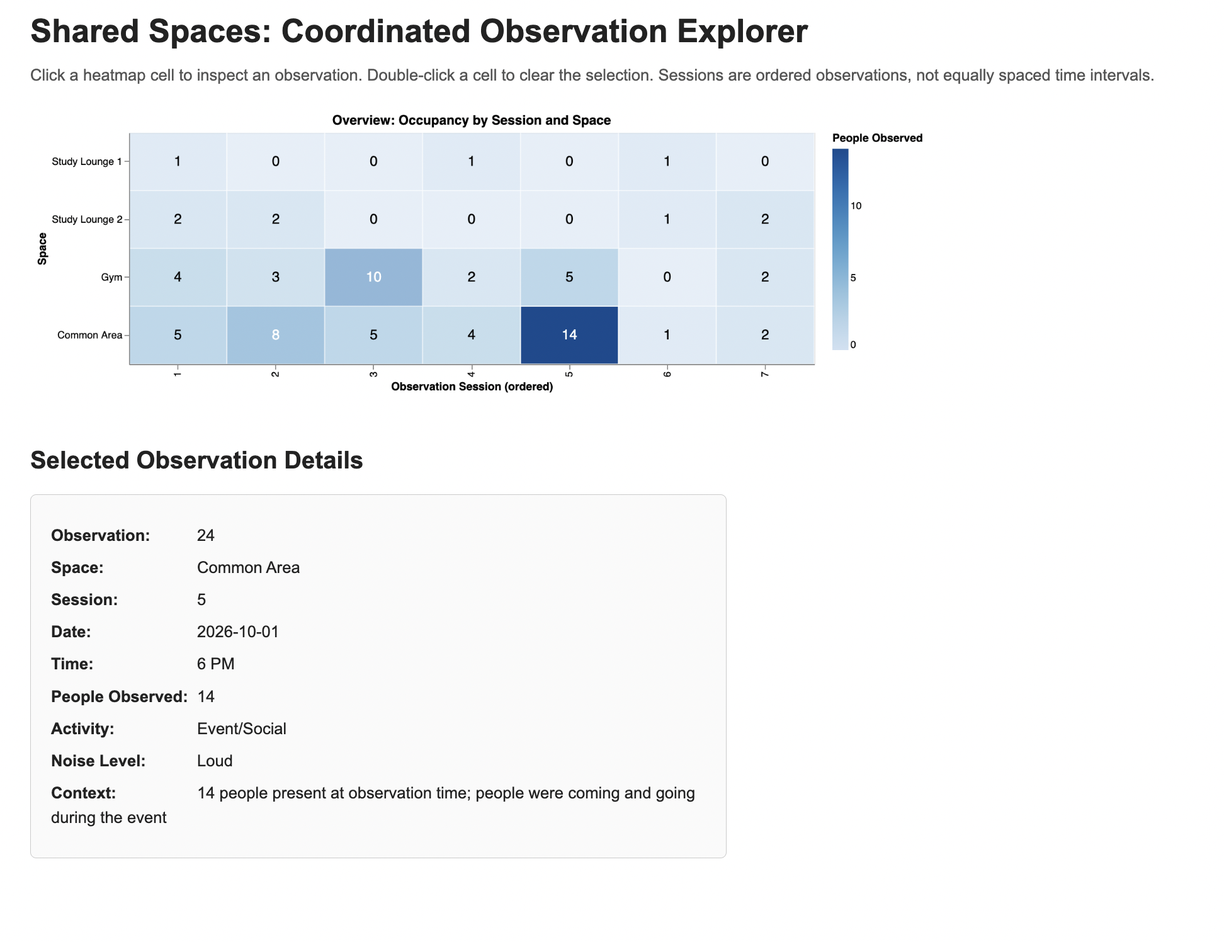
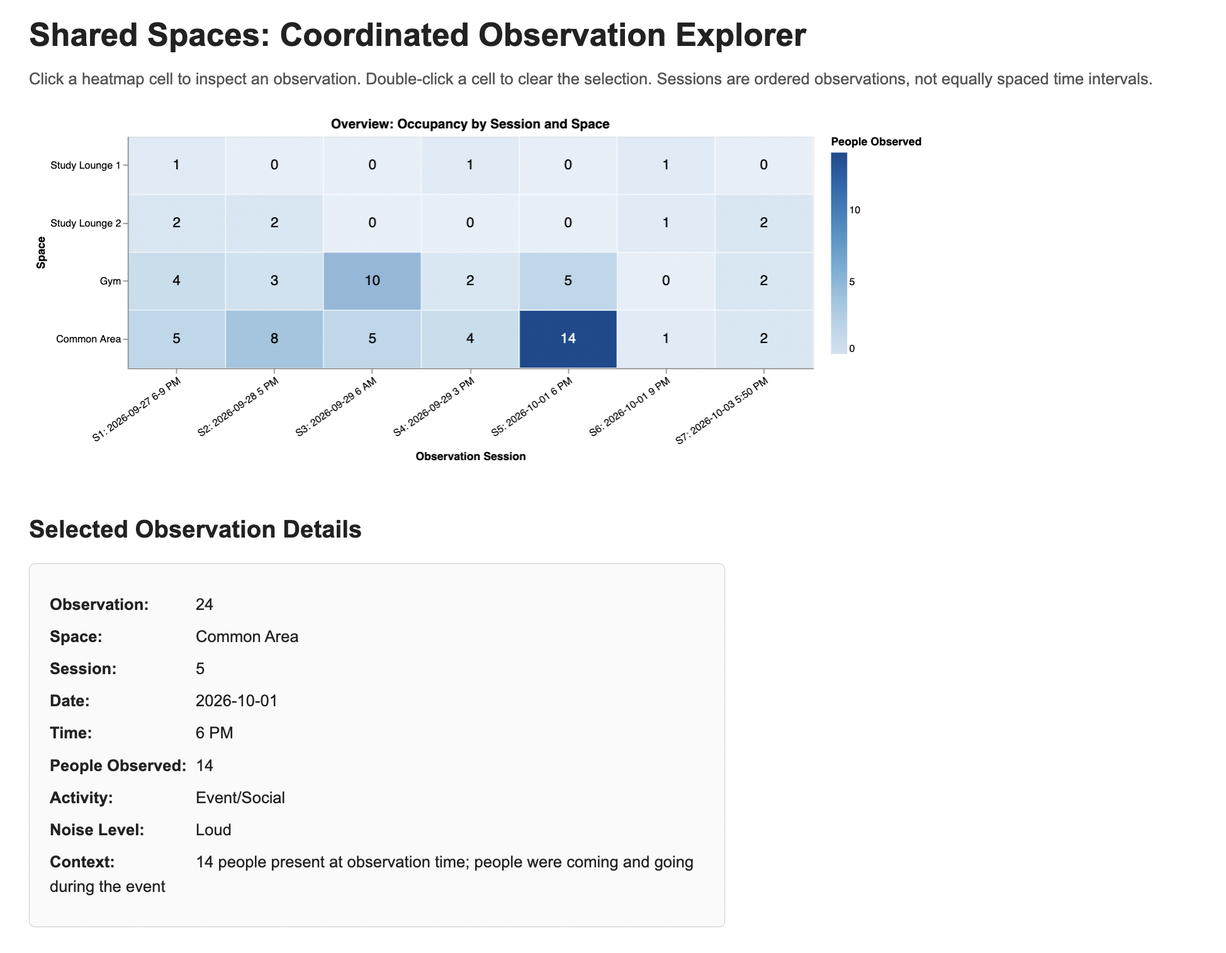
Improve final heatmap labels and readability

diff --git a/assignment2/visualization/iteration2.html b/assignment2/visualization/iteration2.html
@@ -68,7 +68,7 @@ Click a heatmap cell to inspect an observation.
 </div>
 
 <script>
-const spec = {"$schema": "https://vega.github.io/schema/vega-lite/v5.json", "title": "Overview: Occupancy by Session and Space", "width": 680, "height": 230, "data": {"values": [{"observation_id": 1, "date": "2026-09-27", "day_of_week": "Sunday", "time": "6-9 PM", "time_period": "Evening", "space": "Study Lounge 1", "space_type": "Study", "people_count": 1, "noise_level": "Quiet", "main_activity": "Studying/Working", "context_notes": "", "session_id": 1, "session_label": "S1: 2026-09-27 6-9 PM"}, {"observation_id": 2, "date": "2026-09-27", "day_of_week": "Sunday", "time": "6-9 PM", "time_period": "Evening", "space": "Study Lounge 2", "space_type": "Study", "people_count": 2, "noise_level": "Quiet", "main_activity": "Studying/Working", "context_notes": "", "session_id": 1, "session_label": "S1: 2026-09-27 6-9 PM"}, {"observation_id": 3, "date": "2026-09-27", "day_of_week": "Sunday", "time": "6-9 PM", "time_period": "Evening", "space": "Gym", "space_type": "Fitness", "people_count": 4, "noise_level": "Moderate", "main_activity": "Exercising", "context_notes": "Weekend", "session_id": 1, "session_label": "S1: 2026-09-27 6-9 PM"}, {"observation_id": 4, "date": "2026-09-27", "day_of_week": "Sunday", "time": "6-9 PM", "time_period": "Evening", "space": "Common Area", "space_type": "Social/Common", "people_count": 5, "noise_level": "Moderate", "main_activity": "Recreation", "context_notes": "People playing table tennis", "session_id": 1, "session_label": "S1: 2026-09-27 6-9 PM"}, {"observation_id": 5, "date": "2026-09-28", "day_of_week": "Monday", "time": "5 PM", "time_period": "Evening", "space": "Study Lounge 1", "space_type": "Study", "people_count": 0, "noise_level": "Quiet", "main_activity": "None", "context_notes": "Space empty", "session_id": 2, "session_label": "S2: 2026-09-28 5 PM"}, {"observation_id": 6, "date": "2026-09-28", "day_of_week": "Monday", "time": "5 PM", "time_period": "Evening", "space": "Study Lounge 2", "space_type": "Study", "people_count": 2, "noise_level": "Quiet", "main_activity": "Studying/Working", "context_notes": "", "session_id": 2, "session_label": "S2: 2026-09-28 5 PM"}, {"observation_id": 7, "date": "2026-09-28", "day_of_week": "Monday", "time": "5 PM", "time_period": "Evening", "space": "Gym", "space_type": "Fitness", "people_count": 3, "noise_level": "Quiet", "main_activity": "Exercising", "context_notes": "Treadmill and strength training", "session_id": 2, "session_label": "S2: 2026-09-28 5 PM"}, {"observation_id": 8, "date": "2026-09-28", "day_of_week": "Monday", "time": "5 PM", "time_period": "Evening", "space": "Common Area", "space_type": "Social/Common", "people_count": 8, "noise_level": "Loud", "main_activity": "Recreation", "context_notes": "People playing table tennis and pool", "session_id": 2, "session_label": "S2: 2026-09-28 5 PM"}, {"observation_id": 9, "date": "2026-09-29", "day_of_week": "Tuesday", "time": "6 AM", "time_period": "Morning", "space": "Study Lounge 1", "space_type": "Study", "people_count": 0, "noise_level": "Quiet", "main_activity": "None", "context_notes": "Space empty", "session_id": 3, "session_label": "S3: 2026-09-29 6 AM"}, {"observation_id": 10, "date": "2026-09-29", "day_of_week": "Tuesday", "time": "6 AM", "time_period": "Morning", "space": "Study Lounge 2", "space_type": "Study", "people_count": 0, "noise_level": "Quiet", "main_activity": "None", "context_notes": "Space empty", "session_id": 3, "session_label": "S3: 2026-09-29 6 AM"}, {"observation_id": 11, "date": "2026-09-29", "day_of_week": "Tuesday", "time": "6 AM", "time_period": "Morning", "space": "Gym", "space_type": "Fitness", "people_count": 10, "noise_level": "Loud", "main_activity": "Exercising", "context_notes": "Treadmill StairMaster and strength training", "session_id": 3, "session_label": "S3: 2026-09-29 6 AM"}, {"observation_id": 12, "date": "2026-09-29", "day_of_week": "Tuesday", "time": "6 AM", "time_period": "Morning", "space": "Common Area", "space_type": "Social/Common", "people_count": 5, "noise_level": "Moderate", "main_activity": "Mixed", "context_notes": "Reading books or newspapers and having coffee", "session_id": 3, "session_label": "S3: 2026-09-29 6 AM"}, {"observation_id": 13, "date": "2026-09-29", "day_of_week": "Tuesday", "time": "3 PM", "time_period": "Afternoon", "space": "Study Lounge 1", "space_type": "Study", "people_count": 1, "noise_level": "Quiet", "main_activity": "Studying/Working", "context_notes": "", "session_id": 4, "session_label": "S4: 2026-09-29 3 PM"}, {"observation_id": 14, "date": "2026-09-29", "day_of_week": "Tuesday", "time": "3 PM", "time_period": "Afternoon", "space": "Study Lounge 2", "space_type": "Study", "people_count": 0, "noise_level": "Quiet", "main_activity": "None", "context_notes": "Space empty", "session_id": 4, "session_label": "S4: 2026-09-29 3 PM"}, {"observation_id": 15, "date": "2026-09-29", "day_of_week": "Tuesday", "time": "3 PM", "time_period": "Afternoon", "space": "Gym", "space_type": "Fitness", "people_count": 2, "noise_level": "Quiet", "main_activity": "Exercising", "context_notes": "Treadmill walking", "session_id": 4, "session_label": "S4: 2026-09-29 3 PM"}, {"observation_id": 16, "date": "2026-09-29", "day_of_week": "Tuesday", "time": "3 PM", "time_period": "Afternoon", "space": "Common Area", "space_type": "Social/Common", "people_count": 4, "noise_level": "Quiet", "main_activity": "Studying/Working", "context_notes": "People using laptops or phones", "session_id": 4, "session_label": "S4: 2026-09-29 3 PM"}, {"observation_id": 17, "date": "2026-10-01", "day_of_week": "Thursday", "time": "9 PM", "time_period": "Evening", "space": "Study Lounge 1", "space_type": "Study", "people_count": 1, "noise_level": "Quiet", "main_activity": "Studying/Working", "context_notes": "Heavy rain outside", "session_id": 6, "session_label": "S6: 2026-10-01 9 PM"}, {"observation_id": 18, "date": "2026-10-01", "day_of_week": "Thursday", "time": "9 PM", "time_period": "Evening", "space": "Study Lounge 2", "space_type": "Study", "people_count": 1, "noise_level": "Quiet", "main_activity": "Studying/Working", "context_notes": "Heavy rain outside", "session_id": 6, "session_label": "S6: 2026-10-01 9 PM"}, {"observation_id": 19, "date": "2026-10-01", "day_of_week": "Thursday", "time": "9 PM", "time_period": "Evening", "space": "Gym", "space_type": "Fitness", "people_count": 0, "noise_level": "Quiet", "main_activity": "None", "context_notes": "Heavy rain outside; space empty", "session_id": 6, "session_label": "S6: 2026-10-01 9 PM"}, {"observation_id": 20, "date": "2026-10-01", "day_of_week": "Thursday", "time": "9 PM", "time_period": "Evening", "space": "Common Area", "space_type": "Social/Common", "people_count": 1, "noise_level": "Quiet", "main_activity": "Reading", "context_notes": "Heavy rain outside; one person reading a book", "session_id": 6, "session_label": "S6: 2026-10-01 9 PM"}, {"observation_id": 21, "date": "2026-10-01", "day_of_week": "Thursday", "time": "6 PM", "time_period": "Evening", "space": "Study Lounge 1", "space_type": "Study", "people_count": 0, "noise_level": "Quiet", "main_activity": "None", "context_notes": "Event occurring in connected main lobby", "session_id": 5, "session_label": "S5: 2026-10-01 6 PM"}, {"observation_id": 22, "date": "2026-10-01", "day_of_week": "Thursday", "time": "6 PM", "time_period": "Evening", "space": "Study Lounge 2", "space_type": "Study", "people_count": 0, "noise_level": "Quiet", "main_activity": "None", "context_notes": "Event occurring in connected main lobby", "session_id": 5, "session_label": "S5: 2026-10-01 6 PM"}, {"observation_id": 23, "date": "2026-10-01", "day_of_week": "Thursday", "time": "6 PM", "time_period": "Evening", "space": "Gym", "space_type": "Fitness", "people_count": 5, "noise_level": "Moderate", "main_activity": "Exercising", "context_notes": "", "session_id": 5, "session_label": "S5: 2026-10-01 6 PM"}, {"observation_id": 24, "date": "2026-10-01", "day_of_week": "Thursday", "time": "6 PM", "time_period": "Evening", "space": "Common Area", "space_type": "Social/Common", "people_count": 14, "noise_level": "Loud", "main_activity": "Event/Social", "context_notes": "14 people present at observation time; people were coming and going during the event", "session_id": 5, "session_label": "S5: 2026-10-01 6 PM"}, {"observation_id": 25, "date": "2026-10-03", "day_of_week": "Saturday", "time": "5:50 PM", "time_period": "Evening", "space": "Gym", "space_type": "Fitness", "people_count": 2, "noise_level": "Moderate", "main_activity": "Exercising", "context_notes": "Background gym music; weekend", "session_id": 7, "session_label": "S7: 2026-10-03 5:50 PM"}, {"observation_id": 26, "date": "2026-10-03", "day_of_week": "Saturday", "time": "5:50 PM", "time_period": "Evening", "space": "Study Lounge 1", "space_type": "Study", "people_count": 0, "noise_level": "Quiet", "main_activity": "None", "context_notes": "Space empty; weekend", "session_id": 7, "session_label": "S7: 2026-10-03 5:50 PM"}, {"observation_id": 27, "date": "2026-10-03", "day_of_week": "Saturday", "time": "5:50 PM", "time_period": "Evening", "space": "Study Lounge 2", "space_type": "Study", "people_count": 2, "noise_level": "Quiet", "main_activity": "Studying/Working", "context_notes": "Weekend", "session_id": 7, "session_label": "S7: 2026-10-03 5:50 PM"}, {"observation_id": 28, "date": "2026-10-03", "day_of_week": "Saturday", "time": "5:50 PM", "time_period": "Evening", "space": "Common Area", "space_type": "Social/Common", "people_count": 2, "noise_level": "Quiet", "main_activity": "Mixed", "context_notes": "One person working and one waiting for coffee; weekend", "session_id": 7, "session_label": "S7: 2026-10-03 5:50 PM"}]}, "layer": [{"params": [{"name": "selectedObservation", "select": {"type": "point", "fields": ["observation_id"], "on": "click", "clear": "dblclick"}}], "mark": {"type": "rect", "stroke": "white", "strokeWidth": 1}, "encoding": {"x": {"field": "session_id", "type": "ordinal", "title": "Observation Session (ordered)", "sort": "ascending"}, "y": {"field": "space", "type": "nominal", "title": "Space", "sort": ["Study Lounge 1", "Study Lounge 2", "Gym", "Common Area"]}, "color": {"field": "people_count", "type": "quantitative", "title": "People Observed", "scale": {"scheme": "blues"}}, "opacity": {"condition": {"param": "selectedObservation", "value": 1}, "value": 0.55}, "tooltip": [{"field": "observation_id", "title": "Observation"}, {"field": "space", "title": "Space"}, {"field": "session_id", "title": "Session"}, {"field": "people_count", "title": "People"}]}}, {"mark": {"type": "text", "fontSize": 14}, "encoding": {"x": {"field": "session_id", "type": "ordinal", "sort": "ascending"}, "y": {"field": "space", "type": "nominal", "sort": ["Study Lounge 1", "Study Lounge 2", "Gym", "Common Area"]}, "text": {"field": "people_count", "type": "quantitative", "format": "d"}, "color": {"condition": {"test": "datum.people_count >= 8", "value": "white"}, "value": "black"}}}]};
+const spec = {"$schema": "https://vega.github.io/schema/vega-lite/v5.json", "title": "Overview: Occupancy by Session and Space", "width": 680, "height": 230, "data": {"values": [{"observation_id": 1, "date": "2026-09-27", "day_of_week": "Sunday", "time": "6-9 PM", "time_period": "Evening", "space": "Study Lounge 1", "space_type": "Study", "people_count": 1, "noise_level": "Quiet", "main_activity": "Studying/Working", "context_notes": "", "session_id": 1, "session_label": "S1: 2026-09-27 6-9 PM"}, {"observation_id": 2, "date": "2026-09-27", "day_of_week": "Sunday", "time": "6-9 PM", "time_period": "Evening", "space": "Study Lounge 2", "space_type": "Study", "people_count": 2, "noise_level": "Quiet", "main_activity": "Studying/Working", "context_notes": "", "session_id": 1, "session_label": "S1: 2026-09-27 6-9 PM"}, {"observation_id": 3, "date": "2026-09-27", "day_of_week": "Sunday", "time": "6-9 PM", "time_period": "Evening", "space": "Gym", "space_type": "Fitness", "people_count": 4, "noise_level": "Moderate", "main_activity": "Exercising", "context_notes": "Weekend", "session_id": 1, "session_label": "S1: 2026-09-27 6-9 PM"}, {"observation_id": 4, "date": "2026-09-27", "day_of_week": "Sunday", "time": "6-9 PM", "time_period": "Evening", "space": "Common Area", "space_type": "Social/Common", "people_count": 5, "noise_level": "Moderate", "main_activity": "Recreation", "context_notes": "People playing table tennis", "session_id": 1, "session_label": "S1: 2026-09-27 6-9 PM"}, {"observation_id": 5, "date": "2026-09-28", "day_of_week": "Monday", "time": "5 PM", "time_period": "Evening", "space": "Study Lounge 1", "space_type": "Study", "people_count": 0, "noise_level": "Quiet", "main_activity": "None", "context_notes": "Space empty", "session_id": 2, "session_label": "S2: 2026-09-28 5 PM"}, {"observation_id": 6, "date": "2026-09-28", "day_of_week": "Monday", "time": "5 PM", "time_period": "Evening", "space": "Study Lounge 2", "space_type": "Study", "people_count": 2, "noise_level": "Quiet", "main_activity": "Studying/Working", "context_notes": "", "session_id": 2, "session_label": "S2: 2026-09-28 5 PM"}, {"observation_id": 7, "date": "2026-09-28", "day_of_week": "Monday", "time": "5 PM", "time_period": "Evening", "space": "Gym", "space_type": "Fitness", "people_count": 3, "noise_level": "Quiet", "main_activity": "Exercising", "context_notes": "Treadmill and strength training", "session_id": 2, "session_label": "S2: 2026-09-28 5 PM"}, {"observation_id": 8, "date": "2026-09-28", "day_of_week": "Monday", "time": "5 PM", "time_period": "Evening", "space": "Common Area", "space_type": "Social/Common", "people_count": 8, "noise_level": "Loud", "main_activity": "Recreation", "context_notes": "People playing table tennis and pool", "session_id": 2, "session_label": "S2: 2026-09-28 5 PM"}, {"observation_id": 9, "date": "2026-09-29", "day_of_week": "Tuesday", "time": "6 AM", "time_period": "Morning", "space": "Study Lounge 1", "space_type": "Study", "people_count": 0, "noise_level": "Quiet", "main_activity": "None", "context_notes": "Space empty", "session_id": 3, "session_label": "S3: 2026-09-29 6 AM"}, {"observation_id": 10, "date": "2026-09-29", "day_of_week": "Tuesday", "time": "6 AM", "time_period": "Morning", "space": "Study Lounge 2", "space_type": "Study", "people_count": 0, "noise_level": "Quiet", "main_activity": "None", "context_notes": "Space empty", "session_id": 3, "session_label": "S3: 2026-09-29 6 AM"}, {"observation_id": 11, "date": "2026-09-29", "day_of_week": "Tuesday", "time": "6 AM", "time_period": "Morning", "space": "Gym", "space_type": "Fitness", "people_count": 10, "noise_level": "Loud", "main_activity": "Exercising", "context_notes": "Treadmill StairMaster and strength training", "session_id": 3, "session_label": "S3: 2026-09-29 6 AM"}, {"observation_id": 12, "date": "2026-09-29", "day_of_week": "Tuesday", "time": "6 AM", "time_period": "Morning", "space": "Common Area", "space_type": "Social/Common", "people_count": 5, "noise_level": "Moderate", "main_activity": "Mixed", "context_notes": "Reading books or newspapers and having coffee", "session_id": 3, "session_label": "S3: 2026-09-29 6 AM"}, {"observation_id": 13, "date": "2026-09-29", "day_of_week": "Tuesday", "time": "3 PM", "time_period": "Afternoon", "space": "Study Lounge 1", "space_type": "Study", "people_count": 1, "noise_level": "Quiet", "main_activity": "Studying/Working", "context_notes": "", "session_id": 4, "session_label": "S4: 2026-09-29 3 PM"}, {"observation_id": 14, "date": "2026-09-29", "day_of_week": "Tuesday", "time": "3 PM", "time_period": "Afternoon", "space": "Study Lounge 2", "space_type": "Study", "people_count": 0, "noise_level": "Quiet", "main_activity": "None", "context_notes": "Space empty", "session_id": 4, "session_label": "S4: 2026-09-29 3 PM"}, {"observation_id": 15, "date": "2026-09-29", "day_of_week": "Tuesday", "time": "3 PM", "time_period": "Afternoon", "space": "Gym", "space_type": "Fitness", "people_count": 2, "noise_level": "Quiet", "main_activity": "Exercising", "context_notes": "Treadmill walking", "session_id": 4, "session_label": "S4: 2026-09-29 3 PM"}, {"observation_id": 16, "date": "2026-09-29", "day_of_week": "Tuesday", "time": "3 PM", "time_period": "Afternoon", "space": "Common Area", "space_type": "Social/Common", "people_count": 4, "noise_level": "Quiet", "main_activity": "Studying/Working", "context_notes": "People using laptops or phones", "session_id": 4, "session_label": "S4: 2026-09-29 3 PM"}, {"observation_id": 17, "date": "2026-10-01", "day_of_week": "Thursday", "time": "9 PM", "time_period": "Evening", "space": "Study Lounge 1", "space_type": "Study", "people_count": 1, "noise_level": "Quiet", "main_activity": "Studying/Working", "context_notes": "Heavy rain outside", "session_id": 6, "session_label": "S6: 2026-10-01 9 PM"}, {"observation_id": 18, "date": "2026-10-01", "day_of_week": "Thursday", "time": "9 PM", "time_period": "Evening", "space": "Study Lounge 2", "space_type": "Study", "people_count": 1, "noise_level": "Quiet", "main_activity": "Studying/Working", "context_notes": "Heavy rain outside", "session_id": 6, "session_label": "S6: 2026-10-01 9 PM"}, {"observation_id": 19, "date": "2026-10-01", "day_of_week": "Thursday", "time": "9 PM", "time_period": "Evening", "space": "Gym", "space_type": "Fitness", "people_count": 0, "noise_level": "Quiet", "main_activity": "None", "context_notes": "Heavy rain outside; space empty", "session_id": 6, "session_label": "S6: 2026-10-01 9 PM"}, {"observation_id": 20, "date": "2026-10-01", "day_of_week": "Thursday", "time": "9 PM", "time_period": "Evening", "space": "Common Area", "space_type": "Social/Common", "people_count": 1, "noise_level": "Quiet", "main_activity": "Reading", "context_notes": "Heavy rain outside; one person reading a book", "session_id": 6, "session_label": "S6: 2026-10-01 9 PM"}, {"observation_id": 21, "date": "2026-10-01", "day_of_week": "Thursday", "time": "6 PM", "time_period": "Evening", "space": "Study Lounge 1", "space_type": "Study", "people_count": 0, "noise_level": "Quiet", "main_activity": "None", "context_notes": "Event occurring in connected main lobby", "session_id": 5, "session_label": "S5: 2026-10-01 6 PM"}, {"observation_id": 22, "date": "2026-10-01", "day_of_week": "Thursday", "time": "6 PM", "time_period": "Evening", "space": "Study Lounge 2", "space_type": "Study", "people_count": 0, "noise_level": "Quiet", "main_activity": "None", "context_notes": "Event occurring in connected main lobby", "session_id": 5, "session_label": "S5: 2026-10-01 6 PM"}, {"observation_id": 23, "date": "2026-10-01", "day_of_week": "Thursday", "time": "6 PM", "time_period": "Evening", "space": "Gym", "space_type": "Fitness", "people_count": 5, "noise_level": "Moderate", "main_activity": "Exercising", "context_notes": "", "session_id": 5, "session_label": "S5: 2026-10-01 6 PM"}, {"observation_id": 24, "date": "2026-10-01", "day_of_week": "Thursday", "time": "6 PM", "time_period": "Evening", "space": "Common Area", "space_type": "Social/Common", "people_count": 14, "noise_level": "Loud", "main_activity": "Event/Social", "context_notes": "14 people present at observation time; people were coming and going during the event", "session_id": 5, "session_label": "S5: 2026-10-01 6 PM"}, {"observation_id": 25, "date": "2026-10-03", "day_of_week": "Saturday", "time": "5:50 PM", "time_period": "Evening", "space": "Gym", "space_type": "Fitness", "people_count": 2, "noise_level": "Moderate", "main_activity": "Exercising", "context_notes": "Background gym music; weekend", "session_id": 7, "session_label": "S7: 2026-10-03 5:50 PM"}, {"observation_id": 26, "date": "2026-10-03", "day_of_week": "Saturday", "time": "5:50 PM", "time_period": "Evening", "space": "Study Lounge 1", "space_type": "Study", "people_count": 0, "noise_level": "Quiet", "main_activity": "None", "context_notes": "Space empty; weekend", "session_id": 7, "session_label": "S7: 2026-10-03 5:50 PM"}, {"observation_id": 27, "date": "2026-10-03", "day_of_week": "Saturday", "time": "5:50 PM", "time_period": "Evening", "space": "Study Lounge 2", "space_type": "Study", "people_count": 2, "noise_level": "Quiet", "main_activity": "Studying/Working", "context_notes": "Weekend", "session_id": 7, "session_label": "S7: 2026-10-03 5:50 PM"}, {"observation_id": 28, "date": "2026-10-03", "day_of_week": "Saturday", "time": "5:50 PM", "time_period": "Evening", "space": "Common Area", "space_type": "Social/Common", "people_count": 2, "noise_level": "Quiet", "main_activity": "Mixed", "context_notes": "One person working and one waiting for coffee; weekend", "session_id": 7, "session_label": "S7: 2026-10-03 5:50 PM"}]}, "layer": [{"params": [{"name": "selectedObservation", "select": {"type": "point", "fields": ["observation_id"], "on": "click", "clear": "dblclick"}}], "mark": {"type": "rect", "stroke": "white", "strokeWidth": 1}, "encoding": {"x": {"field": "session_label", "type": "ordinal", "title": "Observation Session", "sort": ["S1: 2026-09-27 6-9 PM", "S2: 2026-09-28 5 PM", "S3: 2026-09-29 6 AM", "S4: 2026-09-29 3 PM", "S5: 2026-10-01 6 PM", "S6: 2026-10-01 9 PM", "S7: 2026-10-03 5:50 PM"], "axis": {"labelAngle": -35, "labelLimit": 160}}, "y": {"field": "space", "type": "nominal", "title": "Space", "sort": ["Study Lounge 1", "Study Lounge 2", "Gym", "Common Area"]}, "color": {"field": "people_count", "type": "quantitative", "title": "People Observed", "scale": {"scheme": "blues"}}, "opacity": {"condition": {"param": "selectedObservation", "value": 1}, "value": 0.55}, "tooltip": [{"field": "observation_id", "title": "Observation"}, {"field": "space", "title": "Space"}, {"field": "session_label", "title": "Session"}, {"field": "people_count", "title": "People"}]}}, {"mark": {"type": "text", "fontSize": 14, "interactive": false}, "encoding": {"x": {"field": "session_label", "type": "ordinal", "sort": ["S1: 2026-09-27 6-9 PM", "S2: 2026-09-28 5 PM", "S3: 2026-09-29 6 AM", "S4: 2026-09-29 3 PM", "S5: 2026-10-01 6 PM", "S6: 2026-10-01 9 PM", "S7: 2026-10-03 5:50 PM"]}, "y": {"field": "space", "type": "nominal", "sort": ["Study Lounge 1", "Study Lounge 2", "Gym", "Common Area"]}, "text": {"field": "people_count", "type": "quantitative", "format": "d"}, "color": {"condition": {"test": "datum.people_count >= 12", "value": "white"}, "value": "black"}}}]};
 const observations = [{"observation_id": 1, "date": "2026-09-27", "day_of_week": "Sunday", "time": "6-9 PM", "time_period": "Evening", "space": "Study Lounge 1", "space_type": "Study", "people_count": 1, "noise_level": "Quiet", "main_activity": "Studying/Working", "context_notes": "", "session_id": 1, "session_label": "S1: 2026-09-27 6-9 PM"}, {"observation_id": 2, "date": "2026-09-27", "day_of_week": "Sunday", "time": "6-9 PM", "time_period": "Evening", "space": "Study Lounge 2", "space_type": "Study", "people_count": 2, "noise_level": "Quiet", "main_activity": "Studying/Working", "context_notes": "", "session_id": 1, "session_label": "S1: 2026-09-27 6-9 PM"}, {"observation_id": 3, "date": "2026-09-27", "day_of_week": "Sunday", "time": "6-9 PM", "time_period": "Evening", "space": "Gym", "space_type": "Fitness", "people_count": 4, "noise_level": "Moderate", "main_activity": "Exercising", "context_notes": "Weekend", "session_id": 1, "session_label": "S1: 2026-09-27 6-9 PM"}, {"observation_id": 4, "date": "2026-09-27", "day_of_week": "Sunday", "time": "6-9 PM", "time_period": "Evening", "space": "Common Area", "space_type": "Social/Common", "people_count": 5, "noise_level": "Moderate", "main_activity": "Recreation", "context_notes": "People playing table tennis", "session_id": 1, "session_label": "S1: 2026-09-27 6-9 PM"}, {"observation_id": 5, "date": "2026-09-28", "day_of_week": "Monday", "time": "5 PM", "time_period": "Evening", "space": "Study Lounge 1", "space_type": "Study", "people_count": 0, "noise_level": "Quiet", "main_activity": "None", "context_notes": "Space empty", "session_id": 2, "session_label": "S2: 2026-09-28 5 PM"}, {"observation_id": 6, "date": "2026-09-28", "day_of_week": "Monday", "time": "5 PM", "time_period": "Evening", "space": "Study Lounge 2", "space_type": "Study", "people_count": 2, "noise_level": "Quiet", "main_activity": "Studying/Working", "context_notes": "", "session_id": 2, "session_label": "S2: 2026-09-28 5 PM"}, {"observation_id": 7, "date": "2026-09-28", "day_of_week": "Monday", "time": "5 PM", "time_period": "Evening", "space": "Gym", "space_type": "Fitness", "people_count": 3, "noise_level": "Quiet", "main_activity": "Exercising", "context_notes": "Treadmill and strength training", "session_id": 2, "session_label": "S2: 2026-09-28 5 PM"}, {"observation_id": 8, "date": "2026-09-28", "day_of_week": "Monday", "time": "5 PM", "time_period": "Evening", "space": "Common Area", "space_type": "Social/Common", "people_count": 8, "noise_level": "Loud", "main_activity": "Recreation", "context_notes": "People playing table tennis and pool", "session_id": 2, "session_label": "S2: 2026-09-28 5 PM"}, {"observation_id": 9, "date": "2026-09-29", "day_of_week": "Tuesday", "time": "6 AM", "time_period": "Morning", "space": "Study Lounge 1", "space_type": "Study", "people_count": 0, "noise_level": "Quiet", "main_activity": "None", "context_notes": "Space empty", "session_id": 3, "session_label": "S3: 2026-09-29 6 AM"}, {"observation_id": 10, "date": "2026-09-29", "day_of_week": "Tuesday", "time": "6 AM", "time_period": "Morning", "space": "Study Lounge 2", "space_type": "Study", "people_count": 0, "noise_level": "Quiet", "main_activity": "None", "context_notes": "Space empty", "session_id": 3, "session_label": "S3: 2026-09-29 6 AM"}, {"observation_id": 11, "date": "2026-09-29", "day_of_week": "Tuesday", "time": "6 AM", "time_period": "Morning", "space": "Gym", "space_type": "Fitness", "people_count": 10, "noise_level": "Loud", "main_activity": "Exercising", "context_notes": "Treadmill StairMaster and strength training", "session_id": 3, "session_label": "S3: 2026-09-29 6 AM"}, {"observation_id": 12, "date": "2026-09-29", "day_of_week": "Tuesday", "time": "6 AM", "time_period": "Morning", "space": "Common Area", "space_type": "Social/Common", "people_count": 5, "noise_level": "Moderate", "main_activity": "Mixed", "context_notes": "Reading books or newspapers and having coffee", "session_id": 3, "session_label": "S3: 2026-09-29 6 AM"}, {"observation_id": 13, "date": "2026-09-29", "day_of_week": "Tuesday", "time": "3 PM", "time_period": "Afternoon", "space": "Study Lounge 1", "space_type": "Study", "people_count": 1, "noise_level": "Quiet", "main_activity": "Studying/Working", "context_notes": "", "session_id": 4, "session_label": "S4: 2026-09-29 3 PM"}, {"observation_id": 14, "date": "2026-09-29", "day_of_week": "Tuesday", "time": "3 PM", "time_period": "Afternoon", "space": "Study Lounge 2", "space_type": "Study", "people_count": 0, "noise_level": "Quiet", "main_activity": "None", "context_notes": "Space empty", "session_id": 4, "session_label": "S4: 2026-09-29 3 PM"}, {"observation_id": 15, "date": "2026-09-29", "day_of_week": "Tuesday", "time": "3 PM", "time_period": "Afternoon", "space": "Gym", "space_type": "Fitness", "people_count": 2, "noise_level": "Quiet", "main_activity": "Exercising", "context_notes": "Treadmill walking", "session_id": 4, "session_label": "S4: 2026-09-29 3 PM"}, {"observation_id": 16, "date": "2026-09-29", "day_of_week": "Tuesday", "time": "3 PM", "time_period": "Afternoon", "space": "Common Area", "space_type": "Social/Common", "people_count": 4, "noise_level": "Quiet", "main_activity": "Studying/Working", "context_notes": "People using laptops or phones", "session_id": 4, "session_label": "S4: 2026-09-29 3 PM"}, {"observation_id": 17, "date": "2026-10-01", "day_of_week": "Thursday", "time": "9 PM", "time_period": "Evening", "space": "Study Lounge 1", "space_type": "Study", "people_count": 1, "noise_level": "Quiet", "main_activity": "Studying/Working", "context_notes": "Heavy rain outside", "session_id": 6, "session_label": "S6: 2026-10-01 9 PM"}, {"observation_id": 18, "date": "2026-10-01", "day_of_week": "Thursday", "time": "9 PM", "time_period": "Evening", "space": "Study Lounge 2", "space_type": "Study", "people_count": 1, "noise_level": "Quiet", "main_activity": "Studying/Working", "context_notes": "Heavy rain outside", "session_id": 6, "session_label": "S6: 2026-10-01 9 PM"}, {"observation_id": 19, "date": "2026-10-01", "day_of_week": "Thursday", "time": "9 PM", "time_period": "Evening", "space": "Gym", "space_type": "Fitness", "people_count": 0, "noise_level": "Quiet", "main_activity": "None", "context_notes": "Heavy rain outside; space empty", "session_id": 6, "session_label": "S6: 2026-10-01 9 PM"}, {"observation_id": 20, "date": "2026-10-01", "day_of_week": "Thursday", "time": "9 PM", "time_period": "Evening", "space": "Common Area", "space_type": "Social/Common", "people_count": 1, "noise_level": "Quiet", "main_activity": "Reading", "context_notes": "Heavy rain outside; one person reading a book", "session_id": 6, "session_label": "S6: 2026-10-01 9 PM"}, {"observation_id": 21, "date": "2026-10-01", "day_of_week": "Thursday", "time": "6 PM", "time_period": "Evening", "space": "Study Lounge 1", "space_type": "Study", "people_count": 0, "noise_level": "Quiet", "main_activity": "None", "context_notes": "Event occurring in connected main lobby", "session_id": 5, "session_label": "S5: 2026-10-01 6 PM"}, {"observation_id": 22, "date": "2026-10-01", "day_of_week": "Thursday", "time": "6 PM", "time_period": "Evening", "space": "Study Lounge 2", "space_type": "Study", "people_count": 0, "noise_level": "Quiet", "main_activity": "None", "context_notes": "Event occurring in connected main lobby", "session_id": 5, "session_label": "S5: 2026-10-01 6 PM"}, {"observation_id": 23, "date": "2026-10-01", "day_of_week": "Thursday", "time": "6 PM", "time_period": "Evening", "space": "Gym", "space_type": "Fitness", "people_count": 5, "noise_level": "Moderate", "main_activity": "Exercising", "context_notes": "", "session_id": 5, "session_label": "S5: 2026-10-01 6 PM"}, {"observation_id": 24, "date": "2026-10-01", "day_of_week": "Thursday", "time": "6 PM", "time_period": "Evening", "space": "Common Area", "space_type": "Social/Common", "people_count": 14, "noise_level": "Loud", "main_activity": "Event/Social", "context_notes": "14 people present at observation time; people were coming and going during the event", "session_id": 5, "session_label": "S5: 2026-10-01 6 PM"}, {"observation_id": 25, "date": "2026-10-03", "day_of_week": "Saturday", "time": "5:50 PM", "time_period": "Evening", "space": "Gym", "space_type": "Fitness", "people_count": 2, "noise_level": "Moderate", "main_activity": "Exercising", "context_notes": "Background gym music; weekend", "session_id": 7, "session_label": "S7: 2026-10-03 5:50 PM"}, {"observation_id": 26, "date": "2026-10-03", "day_of_week": "Saturday", "time": "5:50 PM", "time_period": "Evening", "space": "Study Lounge 1", "space_type": "Study", "people_count": 0, "noise_level": "Quiet", "main_activity": "None", "context_notes": "Space empty; weekend", "session_id": 7, "session_label": "S7: 2026-10-03 5:50 PM"}, {"observation_id": 27, "date": "2026-10-03", "day_of_week": "Saturday", "time": "5:50 PM", "time_period": "Evening", "space": "Study Lounge 2", "space_type": "Study", "people_count": 2, "noise_level": "Quiet", "main_activity": "Studying/Working", "context_notes": "Weekend", "session_id": 7, "session_label": "S7: 2026-10-03 5:50 PM"}, {"observation_id": 28, "date": "2026-10-03", "day_of_week": "Saturday", "time": "5:50 PM", "time_period": "Evening", "space": "Common Area", "space_type": "Social/Common", "people_count": 2, "noise_level": "Quiet", "main_activity": "Mixed", "context_notes": "One person working and one waiting for coffee; weekend", "session_id": 7, "session_label": "S7: 2026-10-03 5:50 PM"}];
 
 const details = document.getElementById("details");

diff --git a/scripts/build_iteration2.py b/scripts/build_iteration2.py
@@ -1,4 +1,3 @@
-
 import csv
 import json
 from pathlib import Path
